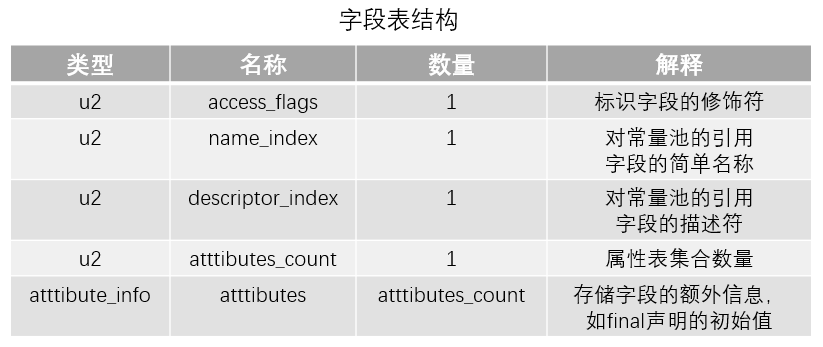
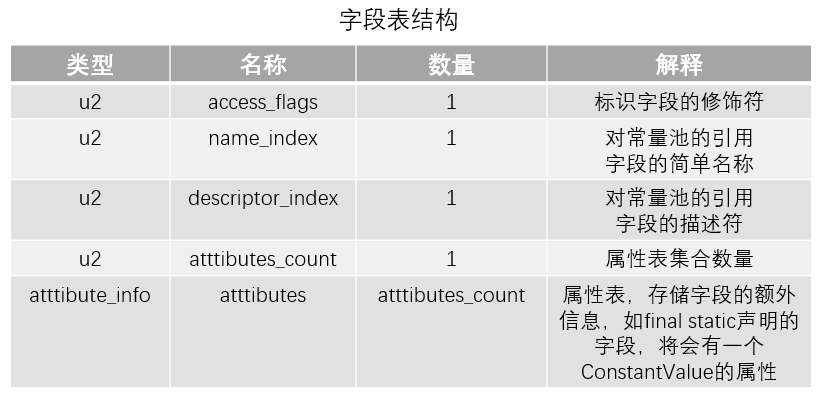
补充虚拟机执行子系统笔记

diff --git a/content/part3/虚拟机执行子系统/字节码指令简介.md b/content/part3/虚拟机执行子系统/字节码指令简介.md
@@ -1,0 +1,79 @@
+### 字节码指令简介
+
+`Java`虚拟机的指令由一个字节长度的、代表着某种特定操作含义的数字（操作码，`Opcode`）以及跟随其后的零至多个代表此操作所需的参数（操作数，`Operand`）构成。
+
+`Java`虚拟机采用面向操作数栈而不是面向寄存器的架构，所以大多数指令都不包含操作数，只有一个操作码，指令参数都存放在操作数栈中。
+
+
+
+#### 字节码指令集的特点
+
+* 数量：`Java`虚拟机操作码的长度为一个字节（即0~255）,这意味着指令集的操作码总数不超过256条
+
+* 操作数处理：`Class`文件格式放弃了编译后代码的操作数长度对齐，意味着虚拟机在处理那些超过
+
+  一个字节的数据时，需要在运行时从字节中重建出具体数据的结构。譬如将一个16位长度的无符号
+
+  整数使用两个无符号字节存储起来（假设将它们命名为`byte1`和`byte2`），那么它们的值应该是
+
+  ```java
+  (byte1 << 8) | byte2
+  ```
+
+  这种操作会导致解释执行字节码时损失一些性能，但优势也很明显，能省略大量的填充和间隔符号。
+
+
+
+#### 执行模式
+
+> 不考虑异常处理
+
+```java
+do {
+	自动计算PC寄存器的值加1;
+	根据PC寄存器指示的位置，从字节码流中去除操作码;
+	if (字节码存在操作数) 从字节码流中去除操作数;
+	执行操作码锁定义的操作;
+} while (字节码流长度 > 0);
+```
+
+
+
+#### 字节码与数据类型
+
+在`Java`虚拟机的指令集中，大多数指令都包含其操作所对应的数据类型信息。
+
+如`iload`指令用于从局部变量表中加载`int`型的数据到操作数栈中，而`fload`指令加载的则是`float`类型。
+
+这两条指令的操作在虚拟机内部可能会是同一段代码实现的，但在`Class`文件中它们必须拥有各自的操作码。
+
+##### 操作码助记符
+
+与数据类型相关的操作码中都有特殊的字符来表明为哪种数据服务
+
+* `i`：代表对`int`类型的数据操作
+* `l`：代表`long`
+* `s`：代表`short`
+* `b`：代表`byte`
+* `c`：代表`char`
+* `f`：代表`float`
+* `d`：代表`double`
+* `a`：代表`reference`
+
+也有一些没有明确指明操作类型的字母，如`arraylength`指令，操作数只能是数组类型的对象。
+
+如无条件跳转指令`goto`则是与数据类型无关的指令。
+
+如果每一种与数据类型相关的指令都支持`Java`虚拟机所有运行时数据类型的话，那么指令的数量
+
+恐怕会超过一字节能表示的数量范围了。因此只对特定的操作只提供有限的类型的指令去支持。
+
+有一些单独的指令可以在必要的使用用来将一些不支持的类型转换为可被支持的类型。
+
+> 编译器会在编译期或运行期将`byte`和`short`类型的数据代符号扩展（`Sign-Extend`）为相应的`int`类型数据，
+>
+> 将`boolean`和`char`类型数据零位扩展（`Zero-Extend`）为相应的`int`类型数据。
+>
+> 数组也同理。最终处理`byte`、`short`、`boolean`和`char`的指令，实际上都是使用相应的`int`类型指令来进行的。
+>
+> （没提供对应的指令就用`int`的）

diff --git a/content/part3/虚拟机执行子系统/类文件结构/属性表/Code 属性.md b/content/part3/虚拟机执行子系统/类文件结构/属性表/Code 属性.md
@@ -1,0 +1,17 @@
+### Code 属性
+
+`Java`程序方法体里的代码经过`Javac`编译器处理之后，最终变成字节码指令存储在`Code`属性内。
+
+`Code`属性出现在方法表的属性集合之中，并非所有的方法表都必须存在这个属性，譬如接口或抽象类。
+
+![](img\Code 属性.png)
+
+#### 细节
+
+* `max_stack`：代表操作数栈（`Operand Stack`）深度的最大值。在方法执行的任意时刻，操作数栈都不会超过这个深度。虚拟机运行的时候需要根据这个值来分配栈桢（`Stack Frame`）中的操作栈深度。
+
+* `max_locals`：代表了局部变量表所需的存储空间，单位是变量槽。实例方法会有隐藏参数`this`。需要注意并不是方法使用多少局部变量就分配多少变量槽，当变量超出其作用域之后，变量占用的变量槽可以被其他变量重用。
+
+* `code_length`：是一个`u4`类型的长度值，理论上最大值可以达到2的32次幂，但《Java虚拟机规范》中明确限制了一个方法不允许超过65535条字节码指令，实际上只使用了`u2`的长度。
+
+* `code`：代表字节码指令，注意到是`u1`类型，最多可以表达256（0~255）条指令。

diff --git a/SUMMARY.md b/SUMMARY.md
@@ -52,4 +52,12 @@
     * [常量池](content/part3/虚拟机执行子系统/类文件结构/常量池.md)
     * [Class的访问标志、类、父类、接口索引](content/part3/虚拟机执行子系统/类文件结构/Class的访问标志、类、父类、接口索引.md)
     * [字段表集合](content/part3/虚拟机执行子系统/类文件结构/字段表集合.md)
+    * [方法表集合](content/part3/虚拟机执行子系统/类文件结构/方法表集合.md)
+    * [属性表](content/part3/虚拟机执行子系统/类文件结构/属性表.md)
+      * [Code 属性](content/part3/虚拟机执行子系统/类文件结构/属性表/Code 属性.md)
+      * [Exceptions 属性](content/part3/虚拟机执行子系统/类文件结构/属性表/Exceptions 属性.md)
+      * [ConstantValue 属性](content/part3/虚拟机执行子系统/类文件结构/属性表/ConstantValue 属性.md)
+  
+  * [字节码指令简介](content/part3/虚拟机执行子系统/字节码指令简介.md)
+    * [加载和存储指令](content/part3/虚拟机执行子系统/字节码指令简介/加载和存储指令.md)
 

diff --git a/content/part3/虚拟机执行子系统/字节码指令简介/加载和存储指令.md b/content/part3/虚拟机执行子系统/字节码指令简介/加载和存储指令.md
@@ -1,0 +1,31 @@
+### 加载和存储指令
+
+加载和存储指令用于将数据在栈桢中的局部变量表和操作数栈之间来回传输。
+
+
+
+将一个局部变量架加载到操作数栈(`Tload`)
+
+```java
+iload、iload_<n>、lload、lload_<n>、fload、fload_<n>、dload、dload_<n>、aload、aload_<n>
+```
+
+将一个数值从操作数栈存储到局部变量表(`Tstore`)
+
+```java
+istore、istore_<n>、lstore、lstore_<n>、fstore、fstore_<n>、dstore、dstore_<n>、astore、astore_<n>
+```
+
+将一个常量加载到操作数栈
+
+```java
+bipush、sipush、ldc、ldc_w、ldc2_w、aconst_null、iconst_m1、iconst_<i>、lconst_<l>、fconst_<f>、dconst_<d>
+```
+
+扩从局部变量表的访问索引的指令
+
+```java
+wide
+```
+
+> `<n>` 代表一组指令，如`iload_<n>`表示`iload_<0>`、`iload_<1>`、`iload_<2>`、`iload_<3>`。

diff --git a/content/part3/虚拟机执行子系统/类文件结构/属性表/ConstantValue 属性.md b/content/part3/虚拟机执行子系统/类文件结构/属性表/ConstantValue 属性.md
@@ -1,0 +1,15 @@
+### ConstantValue 属性
+
+`ConstantValue` 属性的作用是通知虚拟机自动为静态变量赋值，值域被`static`关键字修饰的变量（类变量）
+
+才可以使用这项属性。
+
+`ConstantValue`的属性值只限于基本类型和`String`。
+
+> 关于类变量有两种赋值的方式，在类构造器`<clinit>()`方法中或者使用`ConstantValue`属性。
+>
+> 目前`Oracle`实现的`Javac`编译器的选择是，如果同时使用`final`和`static`来修饰一个变量（其实已经是常量了），
+>
+> 并且这个变量的数据类型是基本类型或`java.lang.String`，将会生成`ConstantValue`属性来进行初始化。
+>
+> 如果没有被`final`修饰或并非基本类型及字符串，则将会在`<clinit>()`方法中进行初始化。

diff --git a/content/part3/虚拟机执行子系统/类文件结构/属性表/Exceptions 属性.md b/content/part3/虚拟机执行子系统/类文件结构/属性表/Exceptions 属性.md
@@ -1,0 +1,9 @@
+### Exceptions 属性
+
+`Exceptions` 属性的作用是列举方法中可能抛出的受检异常（`Checked Exceptions`），
+
+也就是方法描述时在 `throw` 关键字后边列举的异常。
+
+![]()
+
+![Exceptions 属性](img\Exceptions 属性.png)

diff --git a/content/part3/虚拟机执行子系统/类文件结构/属性表.md b/content/part3/虚拟机执行子系统/类文件结构/属性表.md
@@ -1,0 +1,5 @@
+### 属性表
+
+`Class`文件、字段表、方法表都可以携带自己的属性表（`attribute_info`），以描述某些场景专有的信息。
+
+![](img\属性表结构.png)

diff --git a/content/part3/虚拟机执行子系统.md b/content/part3/虚拟机执行子系统.md
@@ -1,6 +1,6 @@
 ### 虚拟机执行子系统
 
-> 啥叫虚拟机执行子系统
+> 为啥叫虚拟机执行子系统
 
 * 类文件结构
 * 虚拟机类加载机制
